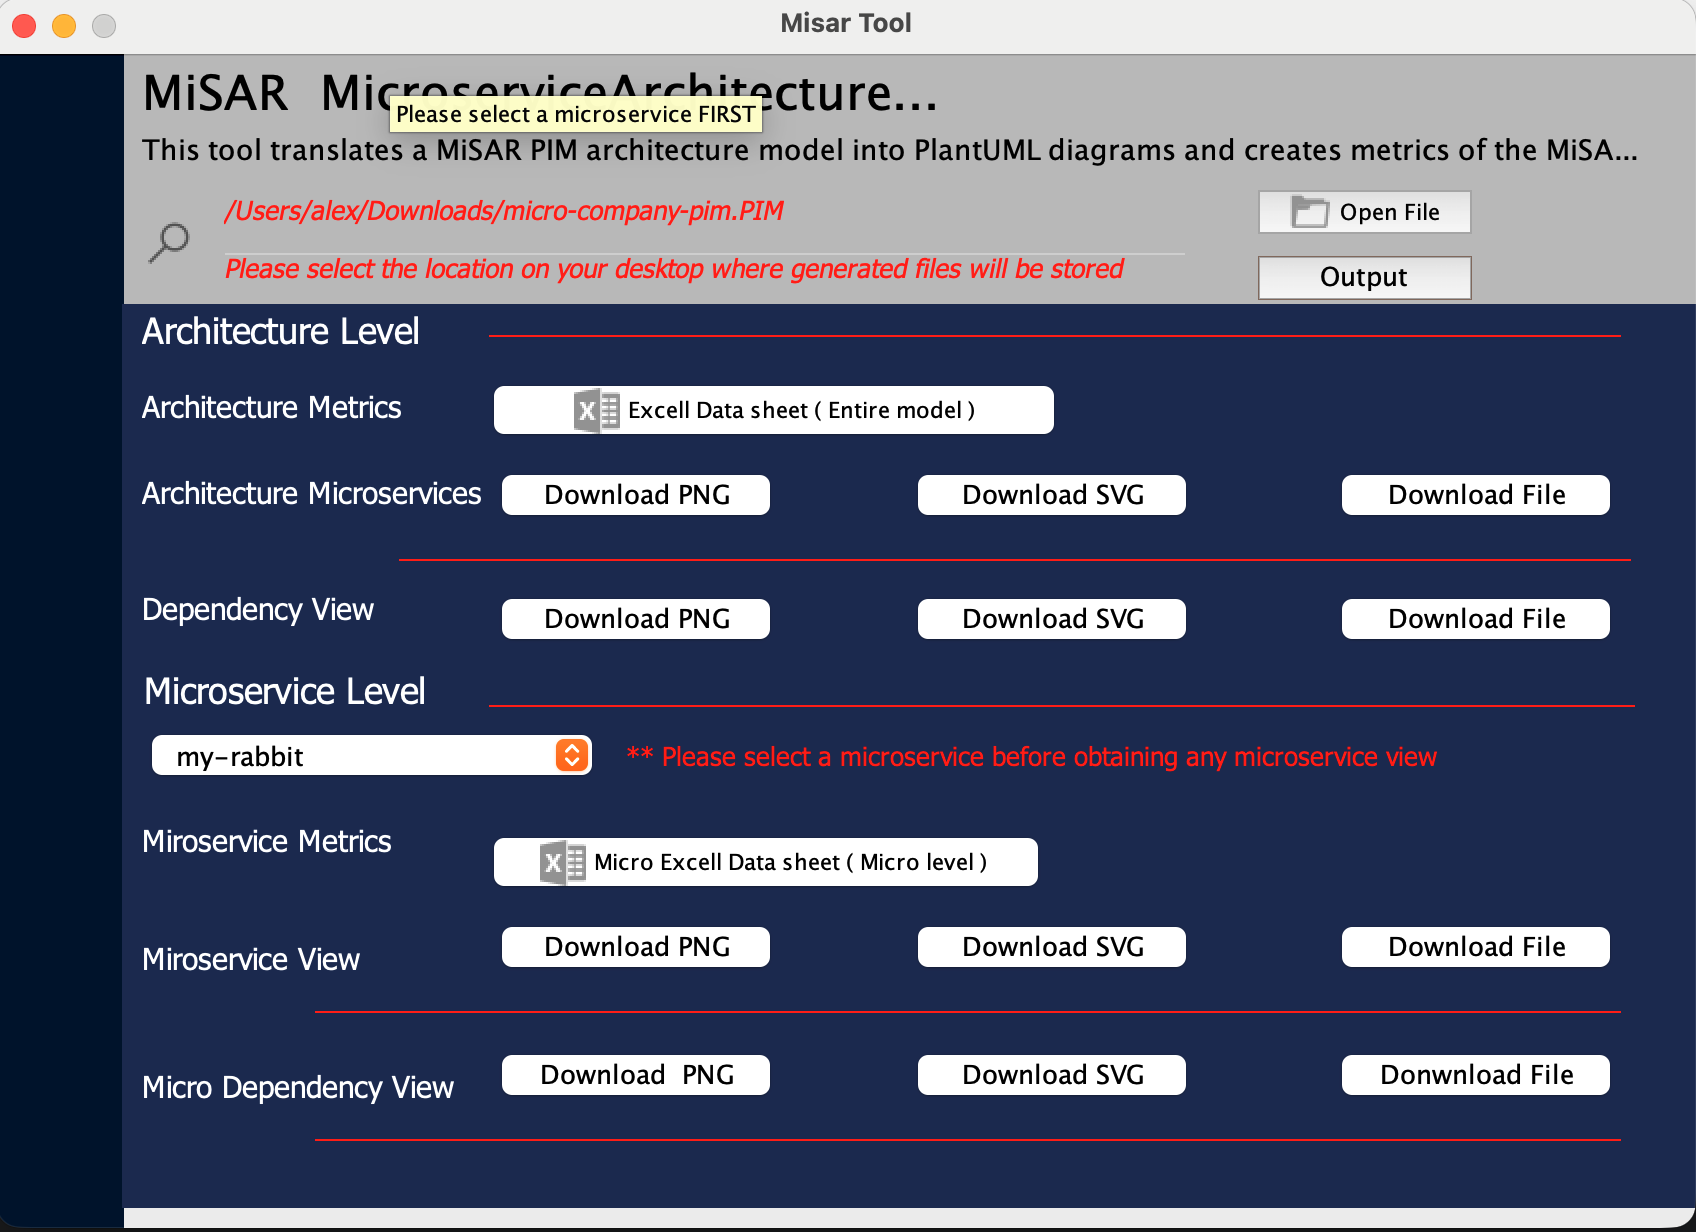
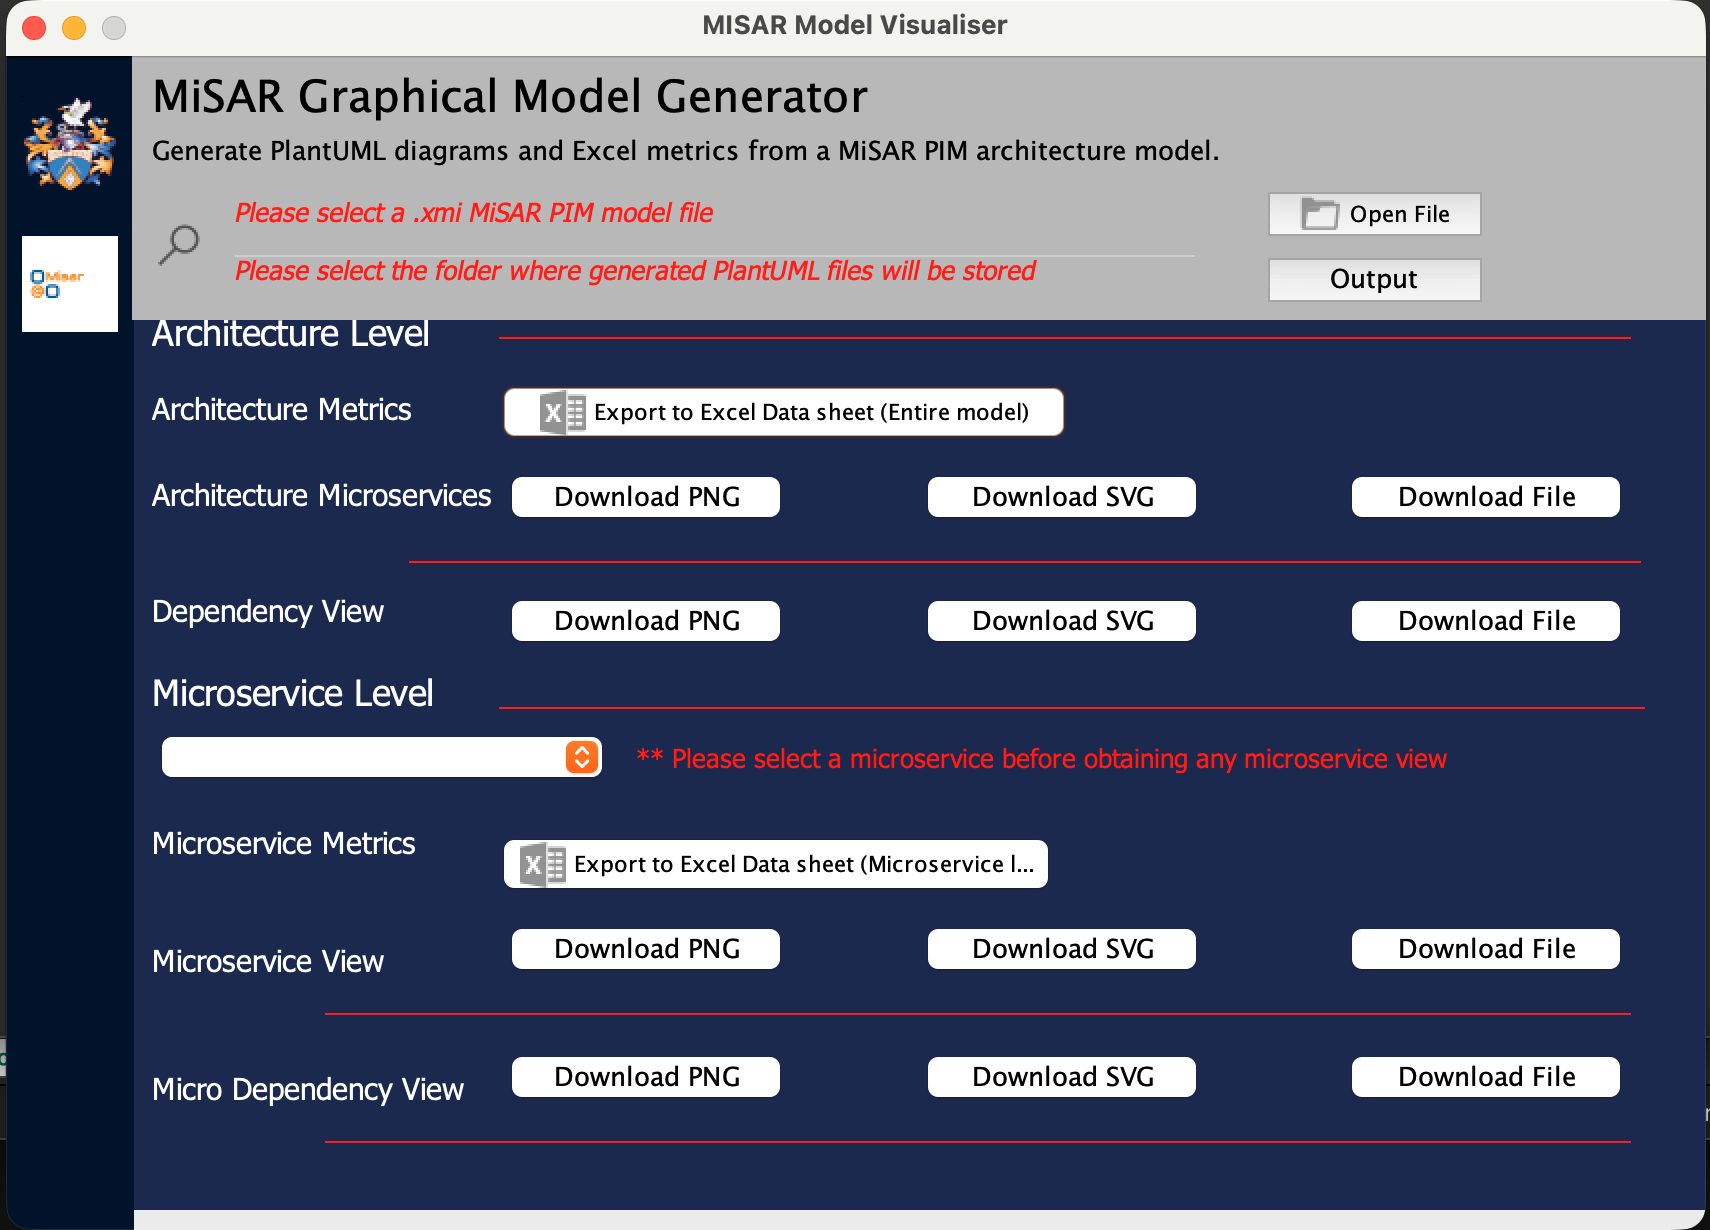
feat(docs): expand graphical-generator.md with detailed descriptions of outputs and usage instructions

diff --git a/misar-docs/docs/graphical-generator.md b/misar-docs/docs/graphical-generator.md
@@ -1,33 +1,280 @@
 # Graphical Model Generator
 
-This is the final step in the MiSAR process, where the recovered PIM is transformed into visual representations (UML diagrams) and summaries.
+The Graphical Model Generator is the final step in the MiSAR workflow. It takes the recovered PIM model and generates visual and tabular outputs that help users inspect, understand, and report the architecture of the analysed microservice system.
+
+This step is optional, but it is useful when you want to visualise the recovered architecture after the PSM to PIM transformation has been completed.
 
 ## Overview
-This step is optional and generates UML diagrams.
+
+The Graphical Model Generator can produce:
+
+- architecture views
+- dependency views
+- UML-style diagrams
+- Excel summaries
+- SVG diagram outputs for large architectures
+
+These outputs help users understand the structure of the recovered system, including microservices, components, dependencies, and endpoint-level relationships.
 
 ## Launch Graphical Model Generator
-Run `python3 MiSAR.py` to open MiSAR AIO, then click **Launch**
+
+Run `python3 MiSAR.py` to open MiSAR AIO, then click **Launch** under **MiSAR Graphical Model Generator**.
 
 ![MiSAR AIO](assets/images/aio/misar-aio.png){ width="500" }
+
+The Graphical Model Generator interface will then open.
 
 ![Graphical generator](assets/images/misar-jar/misar-jar.png)
 
 ## Input
+
 Provide the PIM file generated from the transformation step.
 
-> If you don't have a PIM file, you can simply change the file extension of the generated PIM file from `.xmi` to `.PIM` (case-sensitive) and use that as input.
+The PIM file is the recovered architectural model created from the PSM to PIM transformation process.
+
+You can select where the generated outputs will be saved by choosing an output directory. Default output directory is `USER_HOME/Documents`.
+
+> USER_HOME is the home directory of the user running MiSAR.
+> 
+> On Windows it may be `C:\Users\USERNAME`, and on Linux and macOS it may be `/home/USERNAME`.
 
 ## Outputs
-- UML diagrams
+
+The Graphical Model Generator produces different outputs for analysing the recovered architecture.
+
+The most common outputs are:
+
+- Architecture View
+- Dependency View
+- Excel Summary
+- SVG versions of diagrams
+
+## Architecture View
+
+The **Architecture View** shows the internal structure of the recovered microservice architecture.
+
+It focuses on the microservices and the components identified inside them. This view is useful for understanding what each microservice contains and how MiSAR has classified the recovered architectural elements.
+
+For example, the Architecture View may show:
+
+- functional microservices
+- infrastructure microservices
+- infrastructure components
+- infrastructure clients
+- infrastructure servers
+- component categories such as load balancer, registry and discovery, data persistence, authentication, API gateway, and circuit breaker
+
+![Architecture view](assets/images/misar-jar/micro-company-architecture-view.png)
+
+### When to Use the Architecture View
+
+Use the Architecture View when you want to understand:
+
+- which microservices were recovered
+- which components exist inside each microservice
+- whether a microservice is functional or infrastructure-related
+- what infrastructure patterns or components are present in the system
+- the overall structural organisation of the architecture
+
+This view is especially useful for architecture analysis, reporting, and explaining the recovered system at a higher structural level.
+
+## Dependency View
+
+The **Dependency View** shows the dependencies between recovered microservices.
+
+It focuses on how microservices communicate with each other, including dependency relationships and endpoint-level details where available.
 
 ![Dependency view](assets/images/misar-jar/micro-company-dependency-view.png)
 
-- Excel summaries
+The Dependency View may include:
+
+- source microservice
+- target microservice
+- dependency identifiers
+- dependency lines between services
+- endpoint details
+- self dependencies
+- exposed dependencies
+- database or infrastructure-related dependencies
+
+The diagram is usually supported by a dependency table. This table provides more detailed information about each dependency shown in the diagram.
+
+### When to Use the Dependency View
+
+Use the Dependency View when you want to understand:
+
+- which microservices depend on each other
+- which service calls another service
+- which endpoints are involved in the dependency
+- whether a service has self or exposed dependencies
+- how communication is distributed across the system
+- whether the architecture has many cross-service relationships
+
+This view is useful for analysing coupling, communication flow, service interaction, and dependency complexity.
+
+## Excel Summary
+
+The Graphical Model Generator can also produce an Excel summary of the recovered architecture.
 
 ![Excel example](assets/images/misar-jar/micro-company-xls-example.png)
 
-- Architecture overview
+The Excel output is useful when the generated diagrams are too large to inspect visually, or when you need exact counts and structured architectural information for analysis or reporting.
+
+The generated Excel file contains three main sheets:
+
+1. **Architecture Metrics**
+2. **Pattern Categories**
+3. **Category Summary**
+
+### Architecture Metrics
+
+The **Architecture Metrics** sheet provides a high-level numerical summary of the recovered architecture.
+
+It includes counts such as:
+
+- architecture name
+- number of microservices
+- number of functional microservices
+- number of infrastructure microservices
+- number of containers
+- number of infrastructure pattern components
+- number of server components
+- number of client components
+- number of service dependencies
+- number of service interfaces
+- number of endpoints
+- number of queue listeners
+- number of service operations
+- number of service messages
+
+Use this sheet when you want a quick overview of the size and complexity of the recovered architecture.
+
+For example, it can help answer questions such as:
+
+- How many microservices were recovered?
+- How many dependencies exist between services?
+- How many endpoints were detected?
+- How many infrastructure-related components were identified?
+
+### Pattern Categories
+
+The **Pattern Categories** sheet lists the recovered infrastructure components and their categories for each microservice.
+
+Each row usually includes:
+
+| Column | Description |
+|--------|-------------|
+| **Microservice** | The microservice where the component was detected. |
+| **Component Type** | The type of recovered component, such as infrastructure pattern, client component, or server component. |
+| **Category** | The architectural or infrastructure category assigned to the component. |
+| **Count** | The number of matching components detected for that microservice and category. |
+
+This sheet is useful for understanding which infrastructure patterns or supporting components exist inside each microservice.
+
+Examples of categories may include:
+
+- Data Persistence
+- Web Security
+- Load Balancer
+- Registry And Discovery
+- Centralised Configuration
+- Authorisation And Authentication
+- Asynchronous Message Brokering
+- Circuit Breaker
+- Application Metrics Logging
+- API Gateway And Proxy
+
+Use this sheet when you want to inspect the internal architectural characteristics of each microservice.
+
+### Category Summary
+
+The **Category Summary** sheet aggregates the detected component categories across the whole architecture.
+
+Instead of showing each microservice separately, it groups results by:
+
+| Column             | Description                                                                              |
+|--------------------|------------------------------------------------------------------------------------------|
+| **Component Type** | The recovered component type.                                                            |
+| **Category**       | The detected infrastructure or architectural category.                                   |
+| **Total Count**    | The total number of components found for that type and category across the architecture. |
+
+This sheet is useful when you want to understand the overall distribution of architectural patterns in the system.
+
+For example, it can help identify:
+
+- which infrastructure patterns appear most frequently
+- how many services use centralised configuration
+- how often data persistence appears
+- whether registry/discovery, security, gateway, or circuit breaker patterns are present
+- the overall infrastructure profile of the recovered system
+
+### When to Use the Excel Summary
+
+Use the Excel Summary when:
+
+- the diagrams are too large or crowded to inspect manually
+- you need exact numerical metrics
+- you want to compare microservices
+- you want to inspect component categories in detail
+- you need structured evidence for a report
+- you want to understand the overall architectural pattern distribution
+
+A recommended approach is to use the diagrams for visual understanding, then use the Excel Summary to verify the exact details.
+
+## Viewing Large Architecture Diagrams
+
+When the recovered architecture is large, some generated diagrams may appear crowded or difficult to inspect in standard image formats.
+
+For example, you may notice that:
+
+- part of the architecture appears to be missing from the visible area
+- dependency lines seem to continue outside the image
+- some services, components, or labels are too small to read
+- lines appear to point towards areas that are not visible
+- the diagram is too compressed to understand clearly
+
+In these cases, it is recommended to use the **SVG** version of the generated diagram.
+
+SVG contains the same diagram content, but it is easier to zoom, expand, and inspect without losing visual quality. This makes it more suitable for broader architecture views, especially when the model contains many microservices, dependencies, or UML elements.
+
+## Navigating the Generated Outputs
+
+After generating the graphical outputs, review the files in the selected output directory.
+
+A recommended navigation approach is:
+
+1. Open the **Architecture View** first to understand the recovered microservices and their internal components.
+2. Open the **Dependency View** to inspect communication and dependency relationships between services.
+3. Use the **Excel Summary** to check detailed dependency and component information.
+4. Use the **SVG** diagrams if the PNG or standard image output is too small, crowded, or unclear.
+
+For large systems, it is usually easier to start with the Architecture View, then move to the Dependency View after you understand the main services and components.
+
+## Glossary
+
+| Term                                 | Meaning                                                                                                                                                                         |
+|--------------------------------------|---------------------------------------------------------------------------------------------------------------------------------------------------------------------------------|
+| **PIM**                              | Platform Independent Model. This is the recovered architectural model generated after transforming the PSM.                                                                     |
+| **Architecture View**                | A graphical view showing the recovered microservices and their internal architectural components.                                                                               |
+| **Dependency View**                  | A graphical view showing dependencies and communication relationships between microservices.                                                                                    |
+| **Functional Microservice**          | A microservice mainly responsible for business or application functionality.                                                                                                    |
+| **Infrastructure Microservice**      | A microservice mainly responsible for supporting infrastructure concerns, such as registry, gateway, authentication, or circuit breaking.                                       |
+| **Infrastructure Component**         | A recovered component related to infrastructure behaviour, such as data persistence, load balancing, registry and discovery, or authentication.                                 |
+| **Infrastructure Pattern Component** | A recovered component representing an architectural or infrastructure pattern detected inside a microservice.                                                                   |
+| **Infrastructure Client Component**  | A component showing that a microservice uses or connects to an infrastructure capability, such as configuration, messaging, registry, or persistence.                           |
+| **Infrastructure Server Component**  | A component showing that a microservice provides an infrastructure capability, such as registry, configuration, gateway, or message brokering.                                  |
+| **Dependency**                       | A relationship where one microservice depends on, calls, or communicates with another service or infrastructure element.                                                        |
+| **Service Dependency**               | A detected dependency relationship between services, often shown in the Dependency View and Excel metrics.                                                                      |
+| **Endpoint**                         | A recovered API or service endpoint involved in a dependency relationship.                                                                                                      |
+| **Self Dependency**                  | A dependency where a service exposes or refers to functionality within itself.                                                                                                  |
+| **Exposed Dependency**               | A dependency exposed by a service, usually representing externally visible functionality or endpoints.                                                                          |
+| **Architecture Metrics**             | An Excel sheet that provides high-level counts for the recovered architecture, such as number of microservices, dependencies, endpoints, containers, and components.            |
+| **Pattern Categories**               | An Excel sheet that lists recovered component categories for each microservice. It helps show which infrastructure or architectural patterns were detected inside each service. |
+| **Category Summary**                 | An Excel sheet that aggregates recovered component categories across the whole architecture, showing the total count for each component type and category.                      |
+| **SVG**                              | Scalable Vector Graphics. A diagram format that can be zoomed and resized without losing quality. Useful for large architecture diagrams.                                       |
+| **Excel Summary**                    | A spreadsheet output containing structured details about the recovered architecture, components, and dependencies.                                                              |
 
 ## Notes
-- Useful for visualising system structure
-- Helps in analysis and reporting
+
+- If you encounter issues with the generated diagrams, such as missing elements or unclear labels, try using the SVG version for better clarity.
+- If you encounter errors during generation, check whether the selected PIM file is a valid PIM file. The file should have been generated from the PSM to PIM transformation step by eclipse Transformation Engine. If the file is not a valid PIM, the generator would show an error message.
